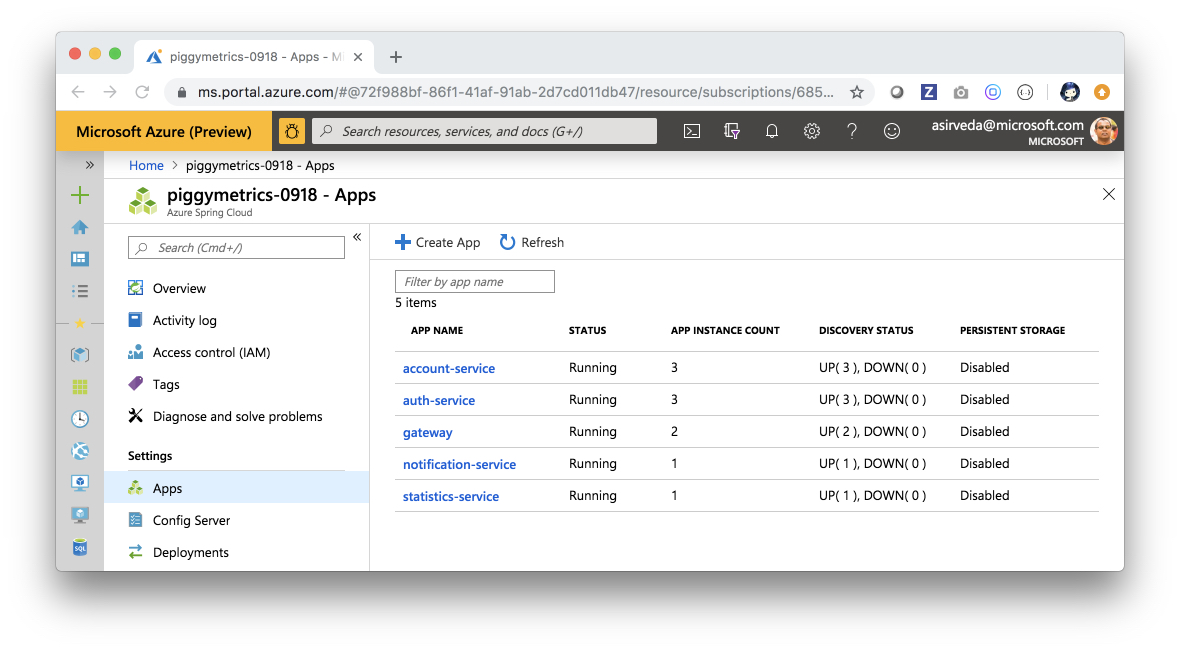
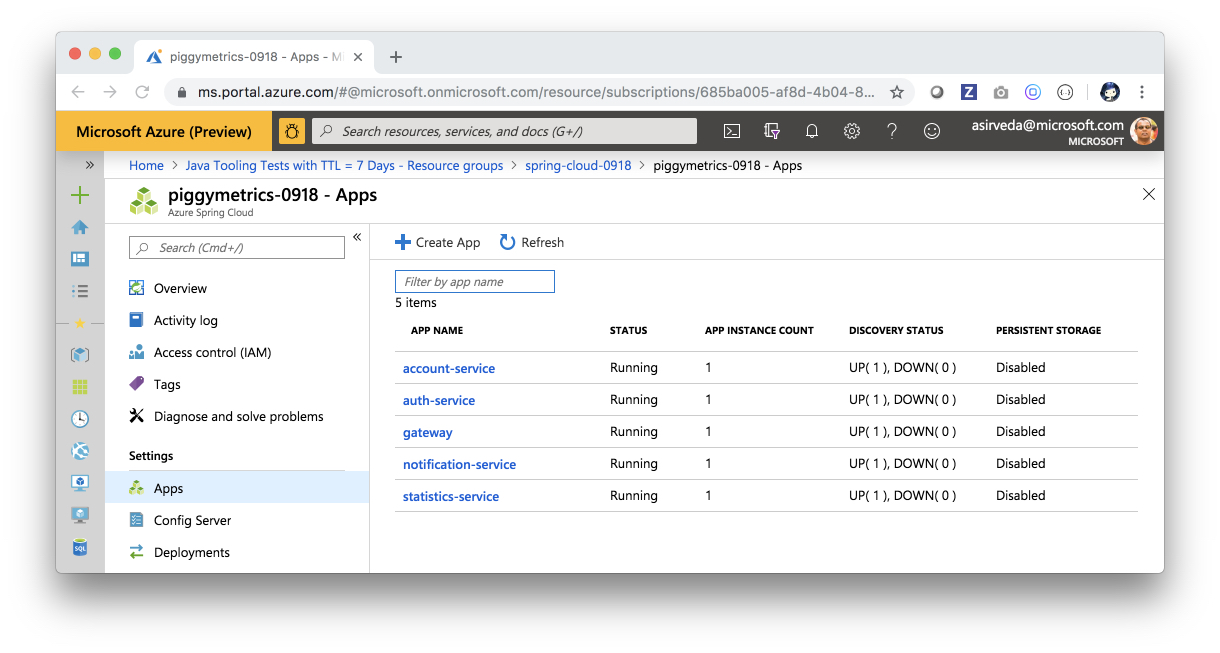
rely on spring.cloud.config.enabled=true default value and added two more apps  (#13)

diff --git a/README.md b/README.md
@@ -237,10 +237,11 @@ reaching the Piggymetrics app, for example, see the value of "url" below:
 # Create 2 more apps
 az spring-cloud app create --name account-service --instance-count 1
 az spring-cloud app create --name auth-service --instance-count 1
-```
-<!--
+
+# Create another 2 apps
 az spring-cloud app create --name statistics-service --instance-count 1
-az spring-cloud app create --name notification-service --instance-count 1-->
+az spring-cloud app create --name notification-service --instance-count 1
+```
 
 ### Deploy Spring Cloud micro service apps
 Build Spring Cloud micro service apps for cloud:
@@ -295,9 +296,7 @@ az spring-cloud app deploy --name auth-service \
     --jar-path ${AUTH_SERVICE_JAR} \
     --env CONFIG_SERVER_URI=${CONFIG_SERVER_URI} MONGODB_DATABASE=${MONGODB_DATABASE} \
           MONGODB_URI=${MONGODB_URI}
-```
-
-<!--
+          
 # Deploy statistics-service app
 az spring-cloud app deploy --name statistics-service \
     --jar-path ${STATISTICS_SERVICE_JAR} \
@@ -308,6 +307,7 @@ az spring-cloud app deploy --name statistics-service \
           RABBITMQ_USERNAME=${RABBITMQ_USERNAME} \
           RABBITMQ_PASSWORD=${RABBITMQ_PASSWORD}
 
+# Deploy notification-service app
 az spring-cloud app deploy --name notification-service \
     --jar-path ${NOTIFICATION_SERVICE_JAR} \
     --env CONFIG_SERVER_URI=${CONFIG_SERVER_URI} MONGODB_DATABASE=${MONGODB_DATABASE} \
@@ -316,7 +316,7 @@ az spring-cloud app deploy --name notification-service \
           RABBITMQ_PORT=${RABBITMQ_PORT} \
           RABBITMQ_USERNAME=${RABBITMQ_USERNAME} \
           RABBITMQ_PASSWORD=${RABBITMQ_PASSWORD}
--->
+```
 
 Open Azure Portal and you can see the three microservice application deployed:
 ![](./media/piggymetrics-on-azure.jpg)
